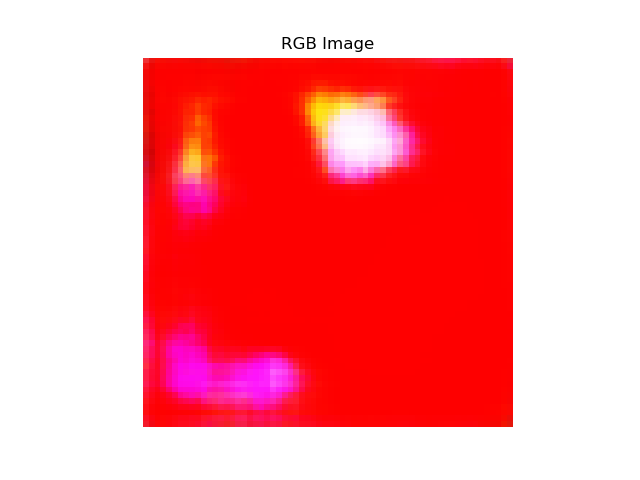
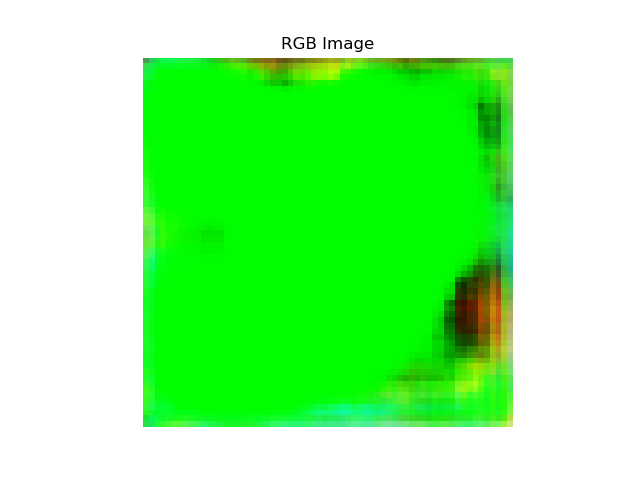
Update training

diff --git a/README.md b/README.md
@@ -27,6 +27,9 @@ After 0 epochs:
 
 ![](results/img/gen_0.png)
 
+After 10 epochs:
+![](results/img/gen_10.png)
+
 After 1000 epochs:
 
 ![](results/img/gen_1000.png)
